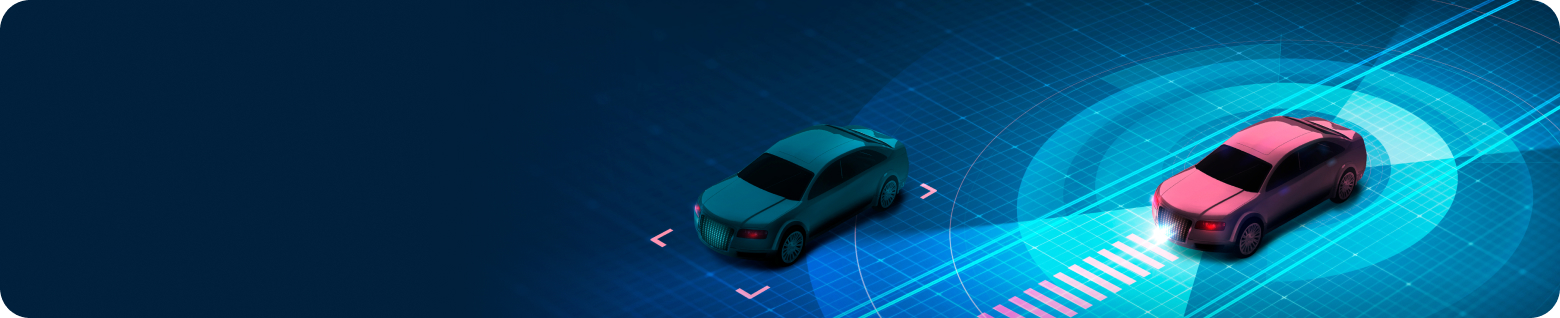
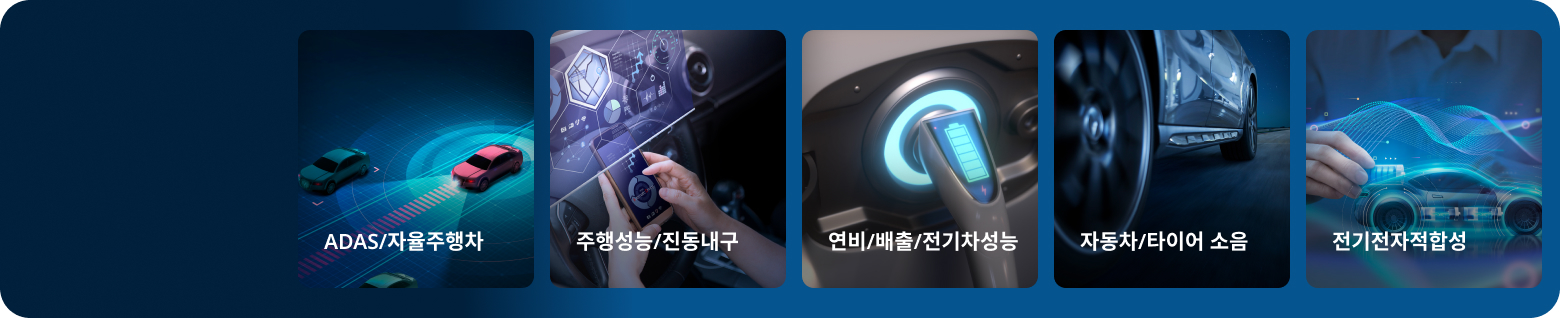
메인비주얼 이미지 수정

diff --git a/index.html b/index.html
@@ -108,10 +108,10 @@
               <div class="main-swiper-slide">
                 <div class="text-box">
                   <h2>시험평가분야</h2>
-                  <p class="comment">ADAS 및 자율주행 시스템을 국내외 기준에 따라 시험·평가합니다.<br> 시험계획부터 실도로 시험, 데이터 분석까지 전 과정 지원합니다.<br> UN 규정과 K-NCAP 등 다양한 규격에 대응합니다.</p>
+                  <p class="comment">ADAS/지율주행차, 주행성능/진동내구, 연비/배출/전기차성능, 자동차/타이어 소음, 전기적자적합성</p>
                 </div>
-                <div class="visual">
-                  <img src="images/Visual1.jpg" alt="" style="object-position: 50% 100%;">
+                <div class="visual" style="background:url(images/Visual1_bg.jpg) no-repeat center center / cover;">
+                  <img src="images/Visual1.jpg" alt="" style="object-position: 100% 50%;">
                 </div>
               </div>
             </li>
@@ -121,8 +121,8 @@
                   <h2>인증업무현황황</h2>
                   <p class="comment">지능형자동차부품의 성능과 법규 적합성을 공인 시험으로 입증합니다.<br> KOLAS, 국토부, 환경부, 해외 인증 등 다양한 인증 절차를 지원합니다.<br> 시장 출시와 수출을 위한 신뢰성 있는 입증 서비스를 제공합니다.</p>
                 </div>
-                <div class="visual">
-                  <img src="images/Visual2.jpg" alt="" style="object-position: center 0;">
+                <div class="visual" style="background:url(images/Visual2_bg.jpg) no-repeat center center / cover;">
+                  <img src="images/Visual2.jpg" alt="" style="object-position: 100% 50%;">
                 </div>
               </div>
             </li>
@@ -132,7 +132,7 @@
                 <div class="text-box">
                   <h2>DAEGU DRIVE<br> PROVING GROUND</h2>
                 </div>
-                <div class="visual">
+                <div class="visual" style="background:url(images/Visual3.jpg) no-repeat center center / cover;">
                   <img src="images/Visual3.jpg" alt="" style="object-position: center 0;">
                 </div>
               </div>

diff --git a/css/main.css b/css/main.css
@@ -25,7 +25,7 @@ body.hdn-scroll {
 }
 
 .main-swiper .text-box {
-  padding: 4.5rem 6.6rem 7.6rem;
+  padding: 6rem 4.5rem 7.6rem;
   font-weight: 100;
   display: flex;
   flex-direction: column;
@@ -79,7 +79,6 @@ body.hdn-scroll {
 
 .main-swiper-slide {
   display: flex;
-  align-items: center;
 }
 
 .main-swiper .controller {
@@ -91,6 +90,18 @@ body.hdn-scroll {
   gap: 1rem;
 }
 
+.main-swiper .comment{
+  display: none;
+}
+
+@media (max-width: 1480px) {
+  .main-swiper img{
+    display: none;
+  }
+  .main-swiper .comment{
+    display: block;
+  }
+}
 @media (max-width: 1280px) {
   .main-swiper .text-box {
     position: absolute;
@@ -107,12 +118,7 @@ body.hdn-scroll {
     width: 100%;
     flex-grow: 1;
   }
-}
 
-@media (max-width: 780px) {
-  .main-swiper .comment {
-    display: none;
-  }
 }
 
 .notice-section {
